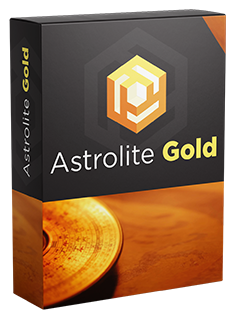
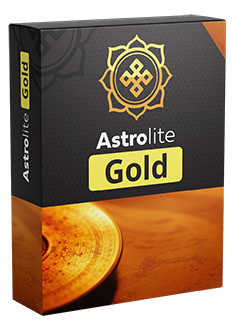
new product image added

diff --git a/src/app/app.component.html b/src/app/app.component.html
@@ -58,12 +58,12 @@
                   <a [routerLink]="['/staticforms/contactus']">Contact</a>
                 </div>
                 
-                <div class=" footer-menu subscribe">
+                <!-- <div class=" footer-menu subscribe">
                     <div class="middle-heading">Subscribe</div>
                     
                     <dx-text-box value="Your email address"style=" width: 175px;float: left;"></dx-text-box>
                     <dx-button id="button" text="Subscribe" type="success"> </dx-button>
-                </div>
+                </div> -->
                 
               </div>
               </div>
@@ -92,6 +92,8 @@
                   </div>
                 </div>
               </div> -->
+              <br>
+              <br>
         </app-footer>
     </app-side-nav-outer-toolbar>
     <!-- <app-single-card>

diff --git a/src/app/pages/horoscope/horoscope-free-data/horoscope-free-data.component.scss b/src/app/pages/horoscope/horoscope-free-data/horoscope-free-data.component.scss
@@ -1,4 +1,4 @@
-app-free-data {
+
     // .cover {
     //     //overflow:hidden;
     //     background-color: lightgray;
@@ -17,7 +17,7 @@ app-free-data {
     //     padding: 5px;
     //   //  line-height: 100px;
     //   }
-}
+
 
 // .customFont {
 //     font-family: "MyWebFont" !important;
@@ -31,16 +31,15 @@ app-free-data {
 //         background-color:white;
 //       }
 
-.float-button {
+.float-bar {
     position: fixed;
-    right: -77px;
+    right: 70px;
     top: 270px;
     transition: all 0.2s ease-in 0s;//this is the key attribute
     z-index: 9999;
     cursor: pointer;
     }
-
-    .float-button:hover {
+.float-button:hover {
         right: -7px;//hide it by pushing it off the screen
         }
 

diff --git a/src/app/pages/horoscope/horoscope-free-data/horoscope-free-data.component.html b/src/app/pages/horoscope/horoscope-free-data/horoscope-free-data.component.html
@@ -115,9 +115,9 @@
 
 <div class="dx-card content-block responsive-paddings">
 
-        <div class=”float-button”>
-
-                <button data-toggle="modal" data-target=".your-modal"></button>
+        <div class="float-bar">
+<p>Get Full Horoscope </p>
+                <button data-toggle="modal" data-target=".your-modal">Buy Full Horoscope</button>
         </div>
 
 

diff --git a/src/app/shared/components/footer/footer.component.scss b/src/app/shared/components/footer/footer.component.scss
@@ -8,7 +8,7 @@
   padding-bottom: 24px;
   margin-left: -40px;
   margin-right: -40px;
-  margin-bottom: 35px;
+ // margin-bottom: 20px;
 }
 .menu{
   padding: 22px;
